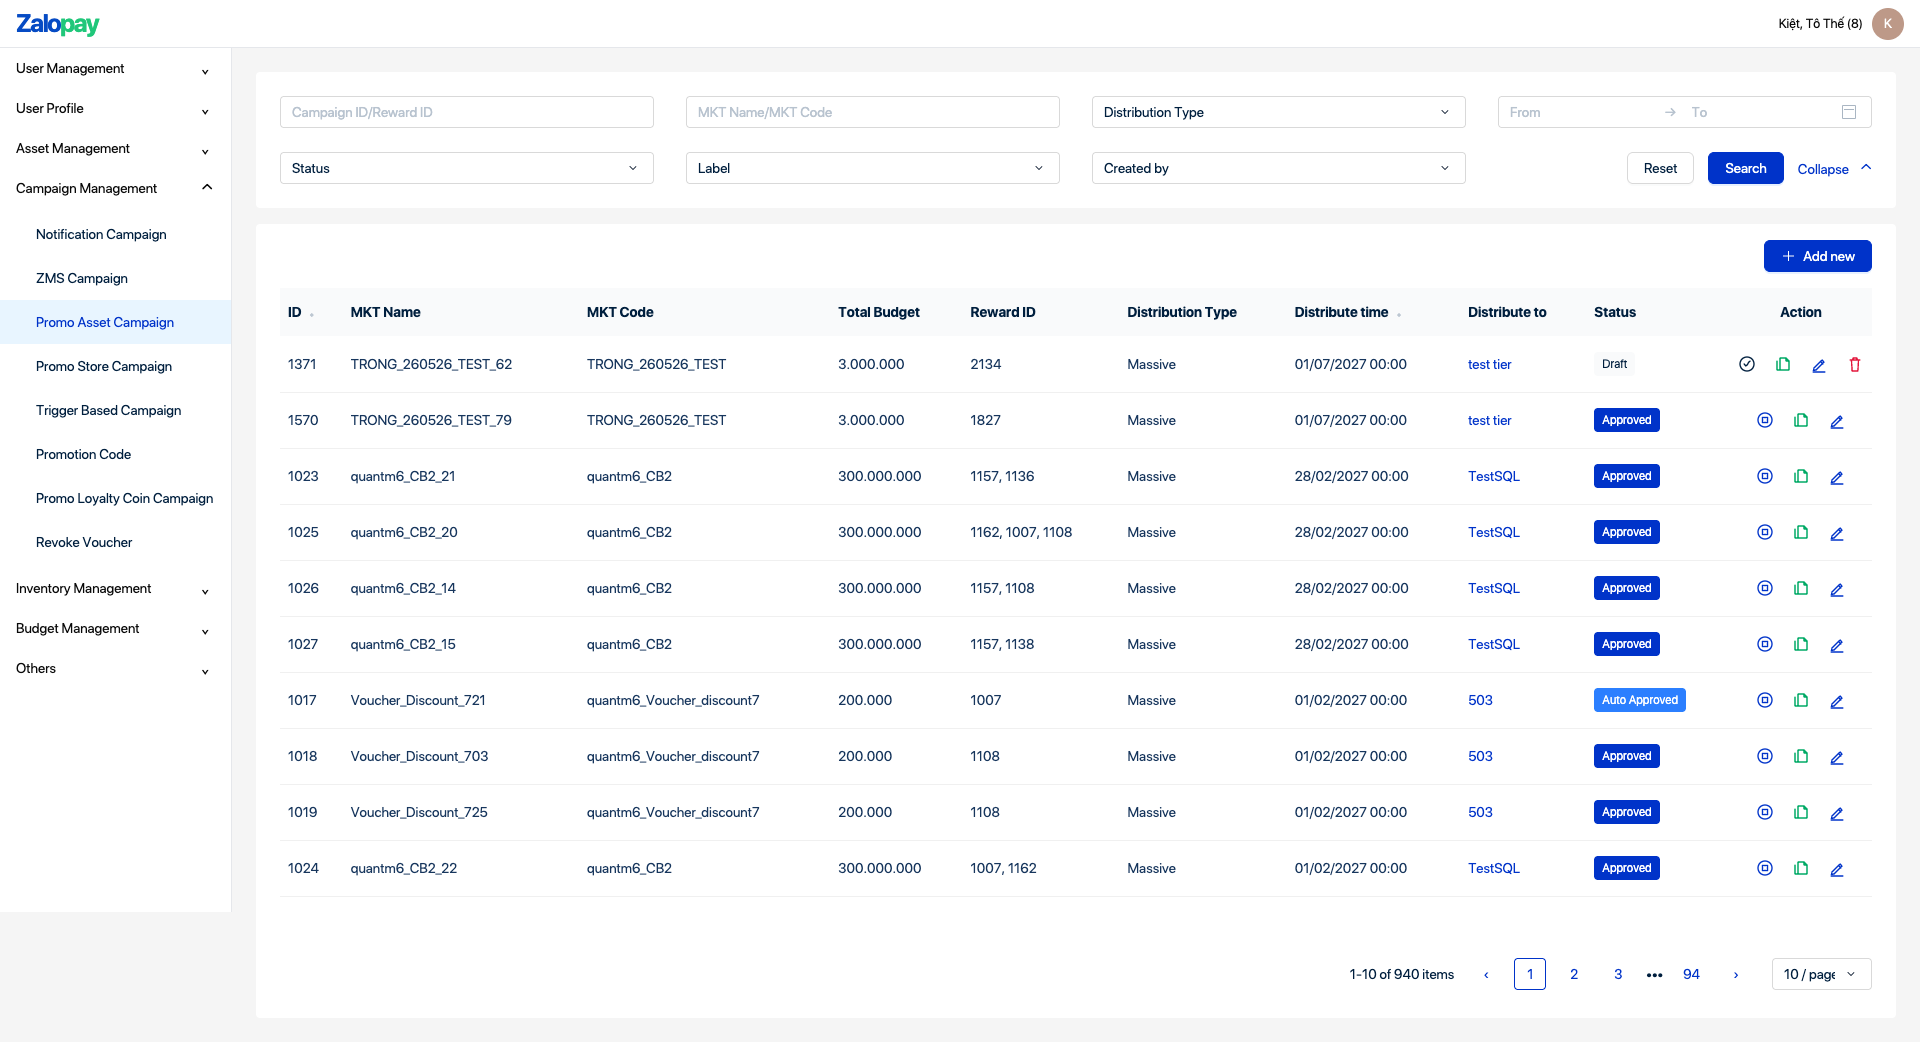
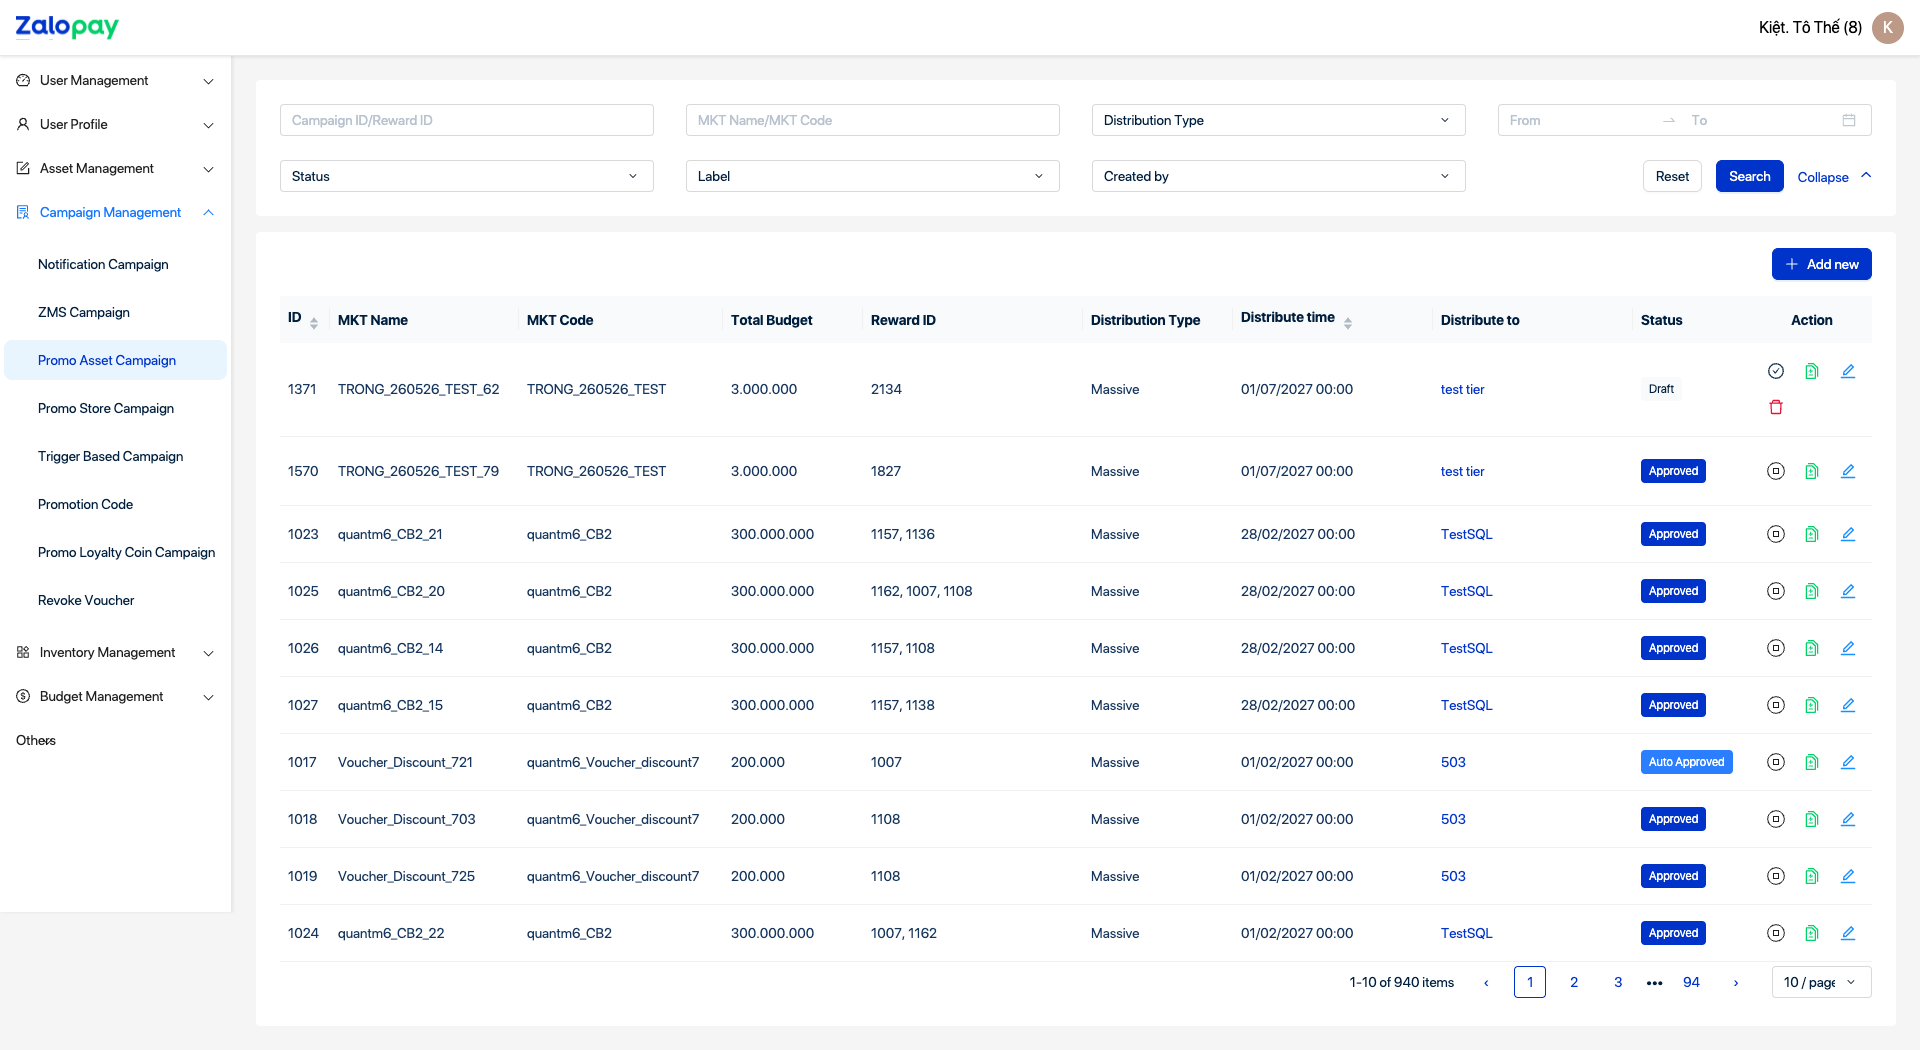
Align campaign demo with exact Figma assets

diff --git a/styles.css b/styles.css
@@ -11,7 +11,7 @@
   --border: #e5e7eb;
   --control-border: #d1d5dc;
   --danger: #fb2c36;
-  --topbar: 48px;
+  --topbar: 56px;
   --sidebar: 232px;
   --radius: 3px;
 }
@@ -23,20 +23,24 @@ button, input, select { font: inherit; color: inherit; }
 button { cursor: pointer; }
 button:disabled { cursor: not-allowed; opacity: .5; }
 
-.topbar { position: fixed; inset: 0 0 auto; height: var(--topbar); background: white; border-bottom: 1px solid var(--border); display: flex; align-items: center; justify-content: space-between; padding: 0 16px; z-index: 50; }
-.zalopay-logo { display: flex; align-items: baseline; text-decoration: none; font-size: 25px; line-height: 1; font-weight: 600; letter-spacing: -1.4px; }
-.zalopay-logo span { color: #064bc4; }
-.zalopay-logo b { color: #20c77a; font-weight: 600; }
-.account { display: flex; align-items: center; gap: 9px; color: #0a0a0a; font-size: 13px; }
+.topbar { position: fixed; inset: 0 0 auto; height: var(--topbar); background: white; border-bottom: 1px solid var(--border); display: flex; align-items: center; justify-content: space-between; padding: 0 16px; z-index: 50; box-shadow: 0 1px 3px rgba(0,0,0,.10); }
+.zalopay-logo { display: flex; width: 103px; height: 24px; text-decoration: none; }
+.zalopay-logo img { display: block; width: 103px; height: 24px; }
+.account { display: flex; align-items: center; gap: 9px; color: #000; font-size: 16px; line-height: 24px; }
 .account i { display: grid; place-items: center; width: 32px; height: 32px; border-radius: 50%; background: #bd9988; color: white; font-style: normal; }
 .menu-toggle { display: none; border: 0; background: transparent; }
 
-.sidebar { position: fixed; left: 0; top: var(--topbar); bottom: 0; width: var(--sidebar); background: white; border-right: 1px solid var(--border); overflow-y: auto; z-index: 40; }
-.sidebar button { width: 100%; height: 40px; border: 0; background: transparent; text-align: left; padding: 0 16px; font-size: 14px; }
-.nav-parent { display: grid; grid-template-columns: 1fr 14px; align-items: center; gap: 8px; color: #0a0a0a; font-weight: 500; }
+.sidebar { position: fixed; left: 0; top: var(--topbar); bottom: 0; width: var(--sidebar); background: white; border-right: 1px solid var(--border); overflow-y: auto; z-index: 40; box-shadow: 1px 0 3px rgba(0,0,0,.08); }
+.sidebar button { width: calc(100% - 8px); height: 40px; margin: 4px; border: 0; border-radius: 8px; background: transparent; text-align: left; padding: 0 12px; font-size: 14px; font-weight: 400; }
+.nav-parent { display: grid; grid-template-columns: 14px 1fr 14px; align-items: center; gap: 10px; color: rgba(0,0,0,.88); }
+.nav-parent[aria-expanded="true"] { color: #1677ff; }
+.nav-icon { width: 14px; height: 14px; }
+.nav-parent > span { position: relative; width: 14px; height: 14px; font-size: 0; }
+.nav-parent > span::before { content: ""; position: absolute; left: 4px; top: 3px; width: 6px; height: 6px; border-right: 1.5px solid currentColor; border-bottom: 1.5px solid currentColor; transform: rotate(45deg); }
+.nav-parent[aria-expanded="true"] > span::before { top: 6px; transform: rotate(225deg); }
 .nav-sub { background: white; padding: 4px 0; }
 .nav-sub[hidden] { display: none; }
-.nav-sub button { height: 44px; padding-left: 36px; }
+.nav-sub button { height: 40px; padding-left: 34px; }
 .campaign-menu button { white-space: nowrap; }
 .nav-sub button:hover, .nav-sub button.active { background: #e8f5ff; color: var(--primary); }
 
@@ -57,7 +61,7 @@ select {
 input::placeholder { color: var(--placeholder); opacity: 1; }
 input:focus, select:focus, .tag-control:focus-within { border-color: #2b7fff; box-shadow: 0 0 0 1px rgba(43,127,255,.18); }
 input:disabled, select:disabled { color: var(--placeholder); background-color: #f3f4f6; cursor: not-allowed; }
-.btn { height: 32px; border-radius: 6px; padding: 0 16px; border: 1px solid transparent; font-size: 14px; line-height: 22px; font-weight: 400; white-space: nowrap; }
+.btn { height: 32px; border-radius: 6px; padding: 0 12px; border: 1px solid transparent; font-size: 14px; line-height: 22px; font-weight: 400; white-space: nowrap; }
 .btn.primary { background: var(--primary); color: white; }
 .btn.primary:hover { background: #002ba9; }
 .btn.secondary { background: white; color: var(--strong); border-color: var(--control-border); }
@@ -67,7 +71,7 @@ input:disabled, select:disabled { color: var(--placeholder); background-color: #
 .filter-grid { display: grid; grid-template-columns: repeat(4, minmax(180px, 1fr)); column-gap: 32px; row-gap: 24px; align-items: center; }
 .range-field { height: 32px; display: grid; grid-template-columns: 1fr auto 1fr; align-items: center; border: 1px solid var(--control-border); border-radius: var(--radius); background: white; }
 .range-field input { border: 0; height: 30px; min-width: 0; }
-.range-field span { color: var(--placeholder); font-weight: 400; }
+.range-field > span { width: 16px; height: 16px; overflow: hidden; color: transparent; background: url("assets/icon-swap-right.svg") center / 16px 16px no-repeat; }
 .range-field:has(input:disabled) { background: #f3f4f6; }
 .range-field:has(input:disabled) input { background: transparent; }
 .filter-actions { grid-column: 3 / 5; display: flex; justify-content: flex-end; gap: 12px; }
@@ -166,22 +170,18 @@ body.asset-mode .time-field { grid-column: auto; }
 .asset-screen select { height: 32px; border-color: #d9d9d9; border-radius: 4px; color: #001f3e; font-size: 14px; }
 .asset-screen input::placeholder { color: #b8c3cf; }
 .asset-screen select { background-position: right 14px center; }
-.asset-btn { height: 32px; display: inline-flex; align-items: center; justify-content: center; gap: 8px; padding: 0 16px; border-radius: 6px; border: 1px solid #d9d9d9; font-size: 14px; line-height: 22px; white-space: nowrap; }
+.asset-btn { height: 32px; display: inline-flex; align-items: center; justify-content: center; gap: 8px; padding: 0 12px; border-radius: 6px; border: 1px solid #d9d9d9; font-size: 14px; line-height: 22px; white-space: nowrap; }
 .asset-btn.primary { border-color: #0033c9; background: #0033c9; color: #fff; box-shadow: 0 2px 0 rgba(5,105,255,.1); }
 .asset-btn.primary:hover { background: #002ba9; }
 .asset-btn.secondary { background: #fff; color: #001f3e; box-shadow: 0 2px 0 rgba(0,31,62,.02); }
-.plus-mark { position: relative; width: 14px; height: 14px; display: inline-block; }
-.plus-mark::before,
-.plus-mark::after { content: ""; position: absolute; left: 6.5px; top: 2px; width: 1px; height: 10px; background: currentColor; }
-.plus-mark::after { transform: rotate(90deg); }
-.calendar-mark { position: relative; width: 14px; height: 14px; display: inline-block; border: 1px solid #aab6c3; border-radius: 1px; flex: 0 0 auto; }
-.calendar-mark::before { content: ""; position: absolute; inset: 3px 1px auto; border-top: 1px solid #aab6c3; }
+.plus-mark { width: 14px; height: 14px; display: inline-block; background: url("assets/icon-plus.svg") center / 14px 14px no-repeat; }
+.calendar-mark { width: 14px; height: 14px; display: inline-block; flex: 0 0 auto; background: url("assets/icon-calendar.svg") center / 14px 14px no-repeat; }
 
 .asset-filter-panel { min-height: 136px; padding: 24px; background: #fff; border-radius: 4px; }
 .asset-filter-grid { display: grid; grid-template-columns: repeat(4, minmax(180px, 1fr)); gap: 24px 32px; align-items: center; }
 .asset-date-range { height: 32px; display: grid; grid-template-columns: minmax(80px,1fr) 20px minmax(80px,1fr) 18px; align-items: center; padding-right: 11px; border: 1px solid #d9d9d9; border-radius: 4px; background: #fff; }
 .asset-date-range input { min-width: 0; height: 30px; padding-right: 3px; border: 0; box-shadow: none; }
-.asset-date-range > span:not(.calendar-mark) { color: #b8c3cf; text-align: center; }
+.asset-date-range > span:not(.calendar-mark) { width: 16px; height: 16px; overflow: hidden; color: transparent; background: url("assets/icon-swap-right.svg") center / 16px 16px no-repeat; }
 .asset-filter-actions { grid-column: 4; display: flex; justify-content: flex-end; align-items: center; gap: 14px; }
 .asset-collapse { height: 32px; padding: 0; border: 0; background: transparent; color: #0033c9; font-size: 14px; }
 .asset-collapse span { margin-left: 8px; }
@@ -189,21 +189,35 @@ body.asset-mode .time-field { grid-column: auto; }
 .asset-list-panel { min-height: 794px; margin-top: 16px; padding: 16px 24px 14px; background: #fff; border-radius: 4px; }
 .asset-list-toolbar { height: 48px; display: flex; justify-content: flex-end; align-items: flex-start; }
 .asset-table-wrap { min-height: 666px; overflow-x: auto; }
-.asset-table { min-width: 1510px; font-variant-numeric: tabular-nums; }
-.asset-table th { height: 48px; padding: 0 8px; background: #f9fafb; color: #001f3e; font-size: 14px; font-weight: 600; }
-.asset-table td { height: 56px; padding: 0 8px; border-color: #f0f0f0; color: #17365d; font-size: 14px; }
+.asset-table { min-width: 1613px; table-layout: fixed; font-variant-numeric: tabular-nums; }
+.asset-table th:nth-child(1) { width: 50px; }
+.asset-table th:nth-child(2) { width: 189px; }
+.asset-table th:nth-child(3) { width: 204px; }
+.asset-table th:nth-child(4) { width: 140px; }
+.asset-table th:nth-child(5) { width: 220px; }
+.asset-table th:nth-child(6) { width: 150px; }
+.asset-table th:nth-child(7) { width: 200px; }
+.asset-table th:nth-child(8) { width: 200px; }
+.asset-table th:nth-child(9) { width: 140px; }
+.asset-table th:nth-child(10) { width: 120px; }
+.asset-table th { position: relative; height: 47px; padding: 0 8px; background: #f9fafb; color: #001f3e; font-size: 14px; font-weight: 600; }
+.asset-table th:not(:last-child)::after { content: ""; position: absolute; top: 12px; right: 0; width: 1px; height: 22px; background: #f0f0f0; }
+.asset-table td { height: 57px; padding: 0 8px; border-color: #f0f0f0; color: #17365d; font-size: 14px; }
+.asset-table tbody tr:first-child td { height: 93px; }
+.asset-table tbody tr:nth-child(2) td { height: 69px; }
 .asset-table th:last-child,
-.asset-table td:last-child { width: 118px; text-align: center; }
+.asset-table td:last-child { position: sticky; right: 0; z-index: 2; width: 120px; background: #fff; text-align: center; box-shadow: -14px 0 18px -18px rgba(0,31,62,.55); }
+.asset-table th:last-child { z-index: 3; background: #f9fafb; }
 .asset-table a { color: #0033c9; text-decoration: none; }
-.sort-mark { margin-left: 5px; color: #bdc7d2; font-size: 7px; }
+.sort-mark { display: inline-grid; width: 12px; height: 16px; margin-left: 4px; vertical-align: -4px; }
+.sort-mark img { grid-area: 1 / 1; width: 12px; height: 12px; }
+.sort-mark img:last-child { margin-top: 7px; }
 .asset-table .status { height: 24px; border-radius: 4px; padding: 0 8px; font-size: 12px; }
 .asset-table .status.draft { background: #f9fafb; color: #001f3e; }
-.asset-table .asset-row-actions { display: flex; align-items: center; justify-content: center; gap: 18px; }
-.asset-icon-button { width: 18px; height: 22px; display: grid; place-items: center; padding: 0; border: 0; background: transparent; color: #0033c9; }
-.asset-icon-button svg { width: 18px; height: 18px; fill: none; stroke: currentColor; stroke-width: 1.4; stroke-linecap: round; stroke-linejoin: round; }
-.asset-icon-button.approve { color: #001f3e; }
-.asset-icon-button.clone { color: #00a965; }
-.asset-icon-button.delete { color: #e3173c; }
+.asset-table .asset-row-actions { display: flex; flex-wrap: wrap; align-items: center; justify-content: flex-start; gap: 4px; width: 112px; }
+.asset-icon-button { width: 32px; height: 32px; display: grid; place-items: center; padding: 0; border: 0; background: transparent; }
+.asset-icon-button img { width: 16px; height: 16px; }
+.asset-icon-button.stop img { width: 20px; height: 20px; }
 .asset-pagination { height: 40px; display: flex; justify-content: flex-end; align-items: center; gap: 12px; color: #001f3e; font-variant-numeric: tabular-nums; }
 .asset-pagination > span:first-child { margin-right: 4px; }
 .asset-pagination button { min-width: 32px; height: 32px; padding: 0 8px; border: 0; border-radius: 4px; background: #fff; color: #0033c9; }

diff --git a/index.html b/index.html
@@ -11,18 +11,18 @@
 <body>
   <header class="topbar">
     <button class="menu-toggle" id="menuToggle" aria-label="Mở menu">☰</button>
-    <a class="zalopay-logo" href="#" aria-label="Zalopay"><span>Zalo</span><b>pay</b></a>
-    <div class="account"><span>Kiệt, Tô Thế (8)</span><i>K</i></div>
+    <a class="zalopay-logo" href="#" aria-label="Zalopay"><img src="assets/figma-logo.svg" alt="Zalopay"></a>
+    <div class="account"><span>Kiệt. Tô Thế (8)</span><i>K</i></div>
   </header>
 
   <aside class="sidebar" id="sidebar">
     <nav>
-      <button class="nav-parent" data-nav-target="userManagementMenu" aria-expanded="false">User Management<span>⌄</span></button>
+      <button class="nav-parent" data-nav-target="userManagementMenu" aria-expanded="false"><img class="nav-icon" src="assets/nav-dashboard.svg" alt="">User Management<span>⌄</span></button>
       <div class="nav-sub single" id="userManagementMenu" hidden><button>Label List</button></div>
-      <button class="nav-parent" data-nav-target="userProfileMenu" aria-expanded="false">User Profile<span>⌄</span></button>
+      <button class="nav-parent" data-nav-target="userProfileMenu" aria-expanded="false"><img class="nav-icon" src="assets/nav-user.svg" alt="">User Profile<span>⌄</span></button>
       <div class="nav-sub single" id="userProfileMenu" hidden><button>Segment</button></div>
-      <button class="nav-parent">Asset Management<span>⌄</span></button>
-      <button class="nav-parent">Campaign Management<span>⌃</span></button>
+      <button class="nav-parent" aria-expanded="false"><img class="nav-icon" src="assets/nav-asset.svg" alt="">Asset Management<span>⌄</span></button>
+      <button class="nav-parent" aria-expanded="true"><img class="nav-icon" src="assets/nav-campaign.svg" alt="">Campaign Management<span>⌃</span></button>
       <div class="nav-sub campaign-menu">
         <button>Notification Campaign</button>
         <button>ZMS Campaign</button>
@@ -33,8 +33,8 @@
         <button class="active" data-route="list">Promo Loyalty Coin Campaign</button>
         <button>Revoke Voucher</button>
       </div>
-      <button class="nav-parent">Inventory Management<span>⌄</span></button>
-      <button class="nav-parent">Budget Management<span>⌄</span></button>
+      <button class="nav-parent" aria-expanded="false"><img class="nav-icon" src="assets/nav-inventory.svg" alt="">Inventory Management<span>⌄</span></button>
+      <button class="nav-parent" aria-expanded="false"><img class="nav-icon" src="assets/nav-budget.svg" alt="">Budget Management<span>⌄</span></button>
       <button class="nav-parent">Others<span>⌄</span></button>
     </nav>
   </aside>
@@ -97,7 +97,7 @@
         <div class="asset-list-toolbar"><button class="asset-btn primary" id="assetAddNew"><span class="plus-mark" aria-hidden="true"></span>Add new</button></div>
         <div class="asset-table-wrap">
           <table class="asset-table">
-            <thead><tr><th>ID <span class="sort-mark">◆</span></th><th>MKT Name</th><th>MKT Code</th><th>Total Budget</th><th>Reward ID</th><th>Distribution Type</th><th>Distribute time <span class="sort-mark">◆</span></th><th>Distribute to</th><th>Status</th><th>Action</th></tr></thead>
+            <thead><tr><th>ID <span class="sort-mark" aria-hidden="true"><img src="assets/icon-sort-up.svg" alt=""><img src="assets/icon-sort-down.svg" alt=""></span></th><th>MKT Name</th><th>MKT Code</th><th>Total Budget</th><th>Reward ID</th><th>Distribution Type</th><th>Distribute time <span class="sort-mark" aria-hidden="true"><img src="assets/icon-sort-up.svg" alt=""><img src="assets/icon-sort-down.svg" alt=""></span></th><th>Distribute to</th><th>Status</th><th>Action</th></tr></thead>
             <tbody id="assetCampaignRows"></tbody>
           </table>
         </div>

diff --git a/app.js b/app.js
@@ -151,14 +151,7 @@ function route(name, payload = {}) {
 }
 
 function assetActionIcon(kind, label) {
-  const paths = {
-    approve: '<circle cx="9" cy="9" r="7"></circle><path d="m6 9 2 2 4-5"></path>',
-    stop: '<circle cx="9" cy="9" r="7"></circle><rect x="6.5" y="6.5" width="5" height="5"></rect>',
-    clone: '<path d="M6 3h6l3 3v9H6z"></path><path d="M12 3v3h3M3 6v9h3"></path>',
-    edit: '<path d="m4 13-.5 2.5L6 15l8-8-2-2z"></path><path d="M10.5 6.5 13 9M3 17h12"></path>',
-    delete: '<path d="M4 5h10M7 5V3h4v2M5.5 5l.6 11h5.8l.6-11"></path>'
-  };
-  return `<button class="asset-icon-button ${kind}" aria-label="${label}" title="${label}"><svg viewBox="0 0 18 18" aria-hidden="true">${paths[kind]}</svg></button>`;
+  return `<button class="asset-icon-button ${kind}" aria-label="${label}" title="${label}"><img src="assets/action-${kind}.svg" alt="" aria-hidden="true"></button>`;
 }
 
 function renderAssetRows(rows = assetCampaigns) {
